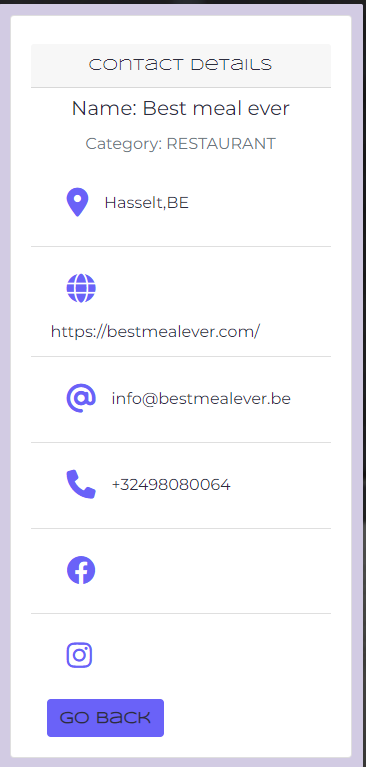
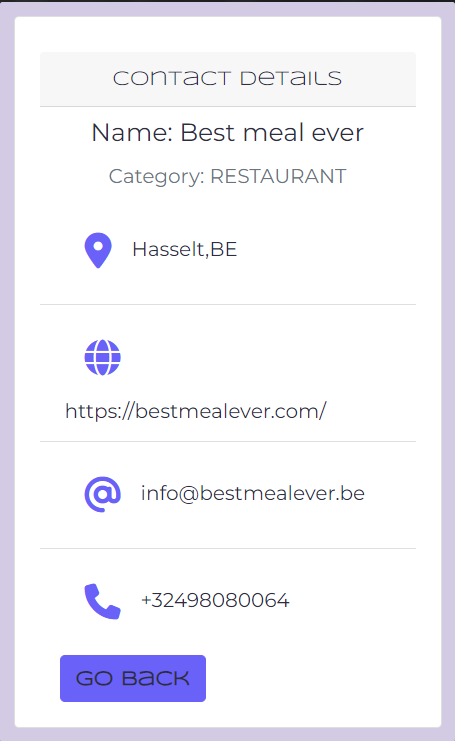
Update the props in the ServiceContactDetail.js file

diff --git a/src/pages/services/ServiceCreateForm.js b/src/pages/services/ServiceCreateForm.js
@@ -27,9 +27,7 @@ const ServiceCreateForm = () => {
     city: "",
     phone_number: "",
     email: "",
-    website: "",
-    facebook: "",
-    instagram: "",
+    website: "",   
     image: "",
   });
 
@@ -41,8 +39,6 @@ const ServiceCreateForm = () => {
     phone_number,
     email,
     website,
-    facebook,
-    instagram,
     image,
   } = serviceData;
 
@@ -76,8 +72,6 @@ const ServiceCreateForm = () => {
     formData.append("phone_number", phone_number);
     formData.append("email", email);
     formData.append("website", website);
-    formData.append("facebook", facebook);
-    formData.append("instagram", instagram);
     formData.append("image", imageInput.current.files[0]);
 
     try {
@@ -198,34 +192,7 @@ const ServiceCreateForm = () => {
           {message}
         </Alert>
       ))}
-      <Form.Group>
-        <Form.Label>Facebook</Form.Label>
-        <Form.Control
-          type="text"
-          name="facebook"
-          value={facebook}
-          onChange={handleChange}
-        />
-      </Form.Group>
-      {errors?.facebook?.map((message, idx) => (
-        <Alert variant="warning" key={idx}>
-          {message}
-        </Alert>
-      ))}
-      <Form.Group>
-        <Form.Label>Instagram</Form.Label>
-        <Form.Control
-          type="text"
-          name="instagram"
-          value={instagram}
-          onChange={handleChange}
-        />
-      </Form.Group>
-      {errors?.instagram?.map((message, idx) => (
-        <Alert variant="warning" key={idx}>
-          {message}
-        </Alert>
-      ))}
+      
 
       <Button
         className={`mx-2 ${btnStyles.button} ${btnStyles.BlackOutline}`}

diff --git a/src/pages/services/ServiceContactDetails.js b/src/pages/services/ServiceContactDetails.js
@@ -18,9 +18,7 @@ const ServiceContactDetails = (props) => {
     city,
     phone_number,
     email,
-    website,
-    facebook,
-    instagram,
+    website,    
     mobile,
   } = props;
 
@@ -59,16 +57,7 @@ const ServiceContactDetails = (props) => {
               <i className={`${styles.contactIcons} fas fa-phone`}></i>
               {phone_number}
             </ListGroup.Item>
-            <ListGroup.Item>
-              <i className={`${styles.contactIcons} fa-brands fa-facebook`}></i>
-              {facebook}
-            </ListGroup.Item>
-            <ListGroup.Item>
-              <i
-                className={`${styles.contactIcons} fa-brands fa-instagram`}
-              ></i>
-              {instagram}
-            </ListGroup.Item>
+            
           </ListGroup>
           <Button
             className={styles.button}

diff --git a/README.md b/README.md
@@ -161,8 +161,6 @@ One is informed about it thanks to displayed tooltip when hovering over the "Lik
 
 ![tooltip-like](/readme/images/features/picture_2.png)
 
-[Back to top](#urbantrip)
-
 ### Navigation bar
 
 The navigation bar is available in all pages except in the authentication pages.
@@ -204,8 +202,6 @@ If there is any error in the provided credentials, the user is informed so he/sh
 
 Similar alerts are available in all the forms of the application to provide feedback to the user whenever provided input is wrong.
 
-[Back to top](#urbantrip)
-
 ### Home page (authenticated users)
 
 After successful signed in, users are redirected to the home page.<br>
@@ -233,10 +229,6 @@ This nested component brings to the UI the result of a filter set in the backend
 
 In small screen devices the number of displayed popular profiles is 4.
 
-
-
-A user's profile can be reached by clicking on the profile image on the left of the "follow"/"unfollow" button.
-
 ### The Post component
 
 Recalling,the home page renders the PostsPage component: all the existing posts are rendered here.
@@ -255,8 +247,6 @@ A post is the content of the Post component, also nested in the PostsPage, and d
 Posts behaves differently depending on if the user is the owner or not of the post.
 For owners, the 3 dots menu is available in the post (PostPage), but not for the other users.
 If a user that isn't the owner tries to reach the posts/:id/edit page via the url, he/she will be redirected to the home page.
-
-[Back to top](#urbantrip)
 
 ### Post CRUD: Create a post (The Create page)
 
@@ -316,8 +306,6 @@ After clicking on "Send" a modal pop-ups to give feedback to the user.
 
 ![contact-modal](/readme/images/features/picture_18A.png)
 
-[Back to top](#urbantrip)
-
 ### The following functionality
 A user can follow another by simply clicking on the "Follow" button.
 The button will then be changed to "Unfollow" to let the user stop following the other user.
@@ -358,8 +346,6 @@ Owner of the comment has the 3 dots menu available on the comment for edit/delet
 If the delete option is clicked the DeleteConfirmation component is called.
 User can abort the deletion by clicking on "cancel", he/she will be redirected the last visited page, or proceed by clicking on "confirm deletion", in which case the user is redirected to the home page.
 Deleting a comment decreases the count by 1 in the PostPage component.
-
-[Back to top](#urbantrip)
 
 ### The Profile components
 Profiles are created from the backend at user registration and are stored in the **Profile component** (Profile.js) holding the username and a default profile image.
@@ -442,13 +428,11 @@ Reviews are displayed in descendant order (the newest on top).
 
 Edit and Delete functionalities for reviews aren't available in the UI, but for the admin super users in the backend.
 
+[Back to top](#urbantrip)
 
+---
 
-
-
-
-
-#### Features to be implemented
+### Features to be implemented
 In the future, I'd like to improve this web application by:
 
 - Adding the "Password forgotten" feature.
